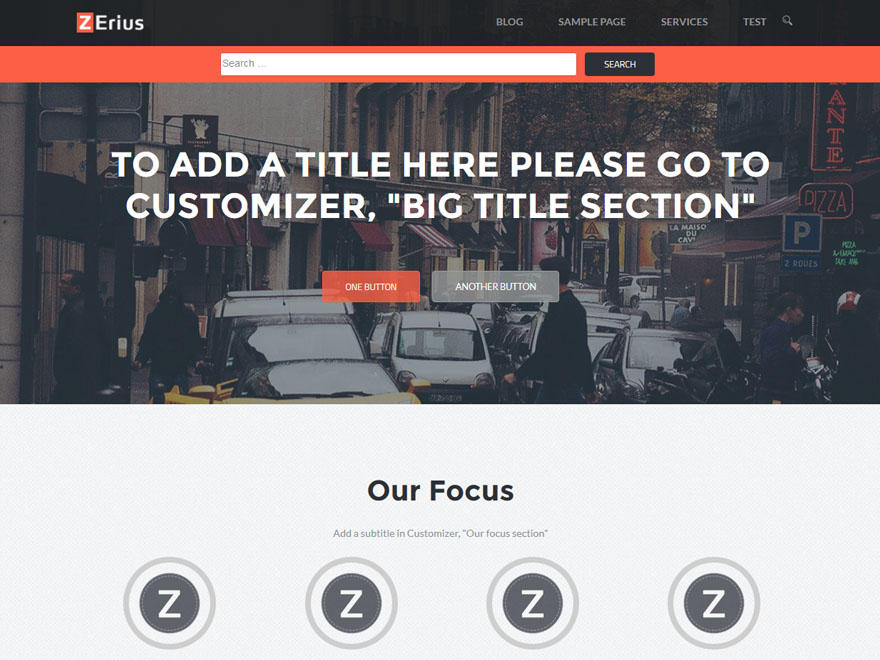
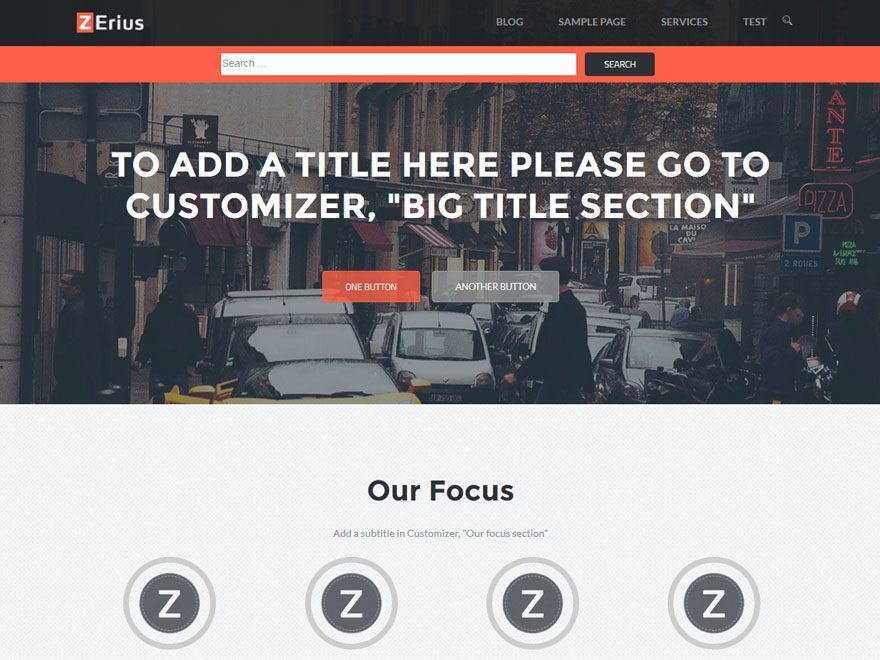
Removed unused files and optimized images for child themes

diff --git a/functions.php b/functions.php
@@ -135,9 +135,6 @@ function zerif_setup()
 
 		require get_template_directory() . '/inc/customizer.php';
 
-		require get_template_directory() . '/inc/category-dropdown-custom-control.php';
-
-
 		/* tgm-plugin-activation */
         require_once get_template_directory() . '/class-tgm-plugin-activation.php';
 
